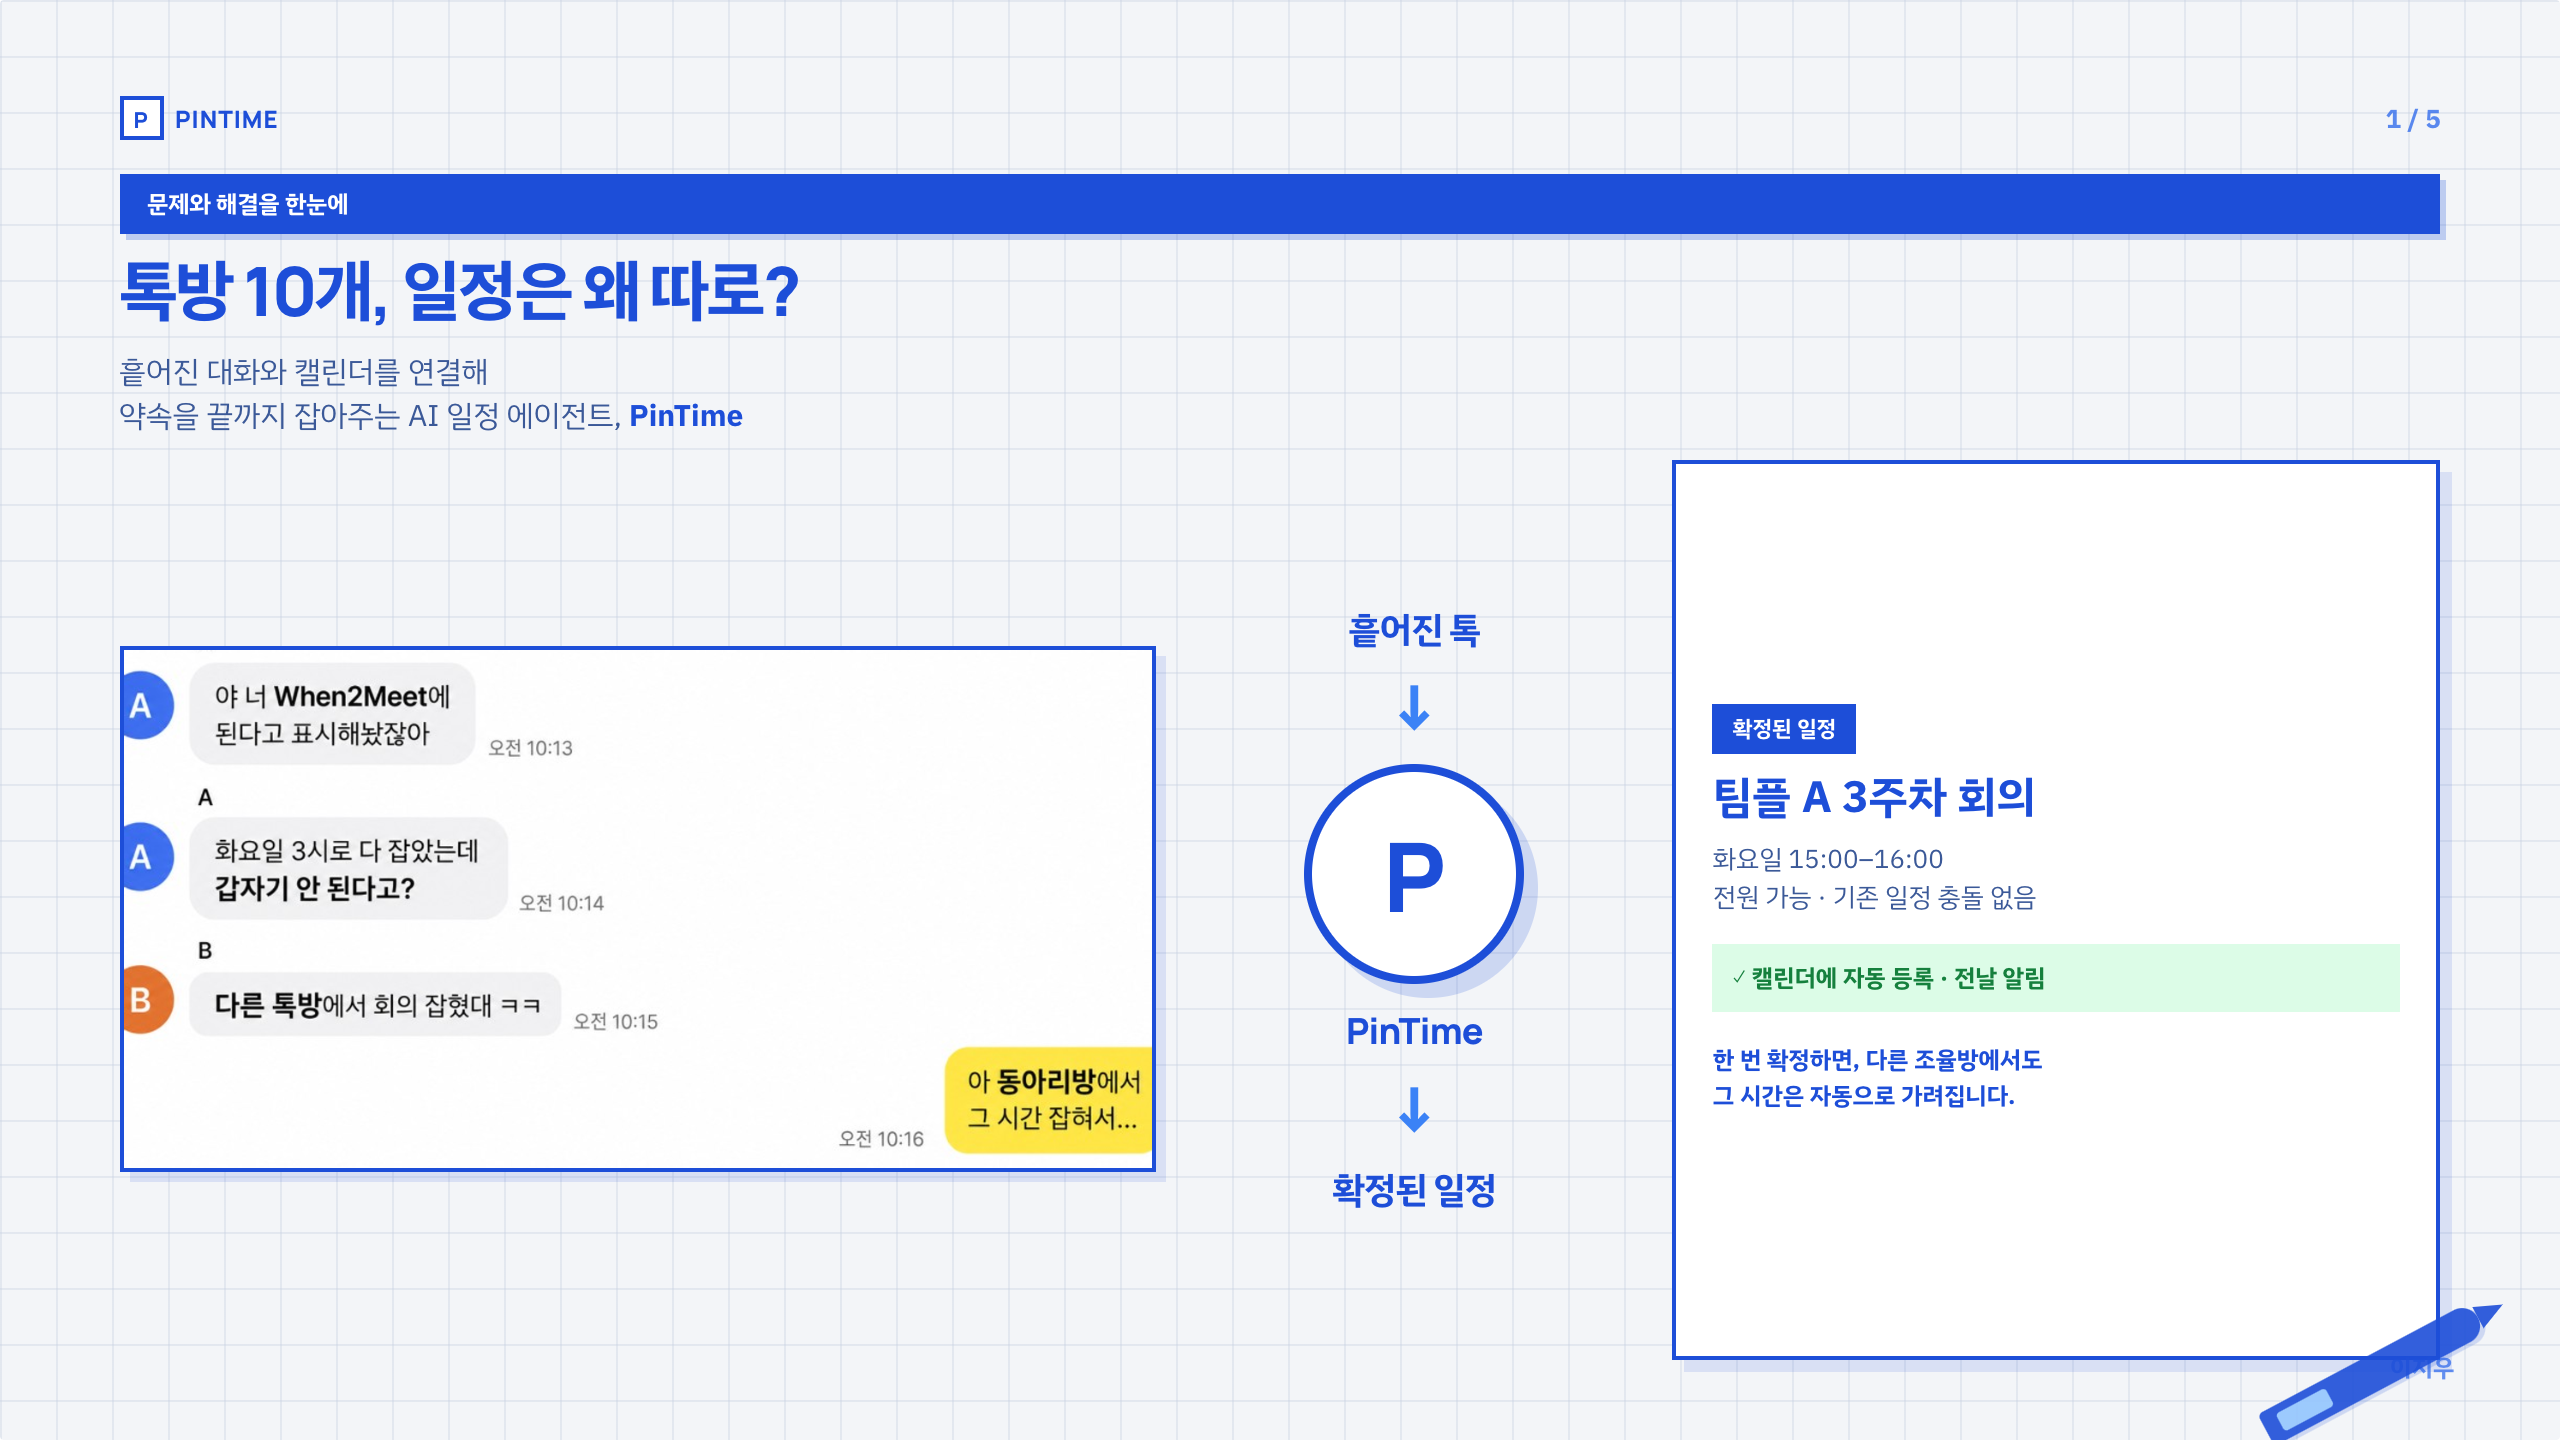
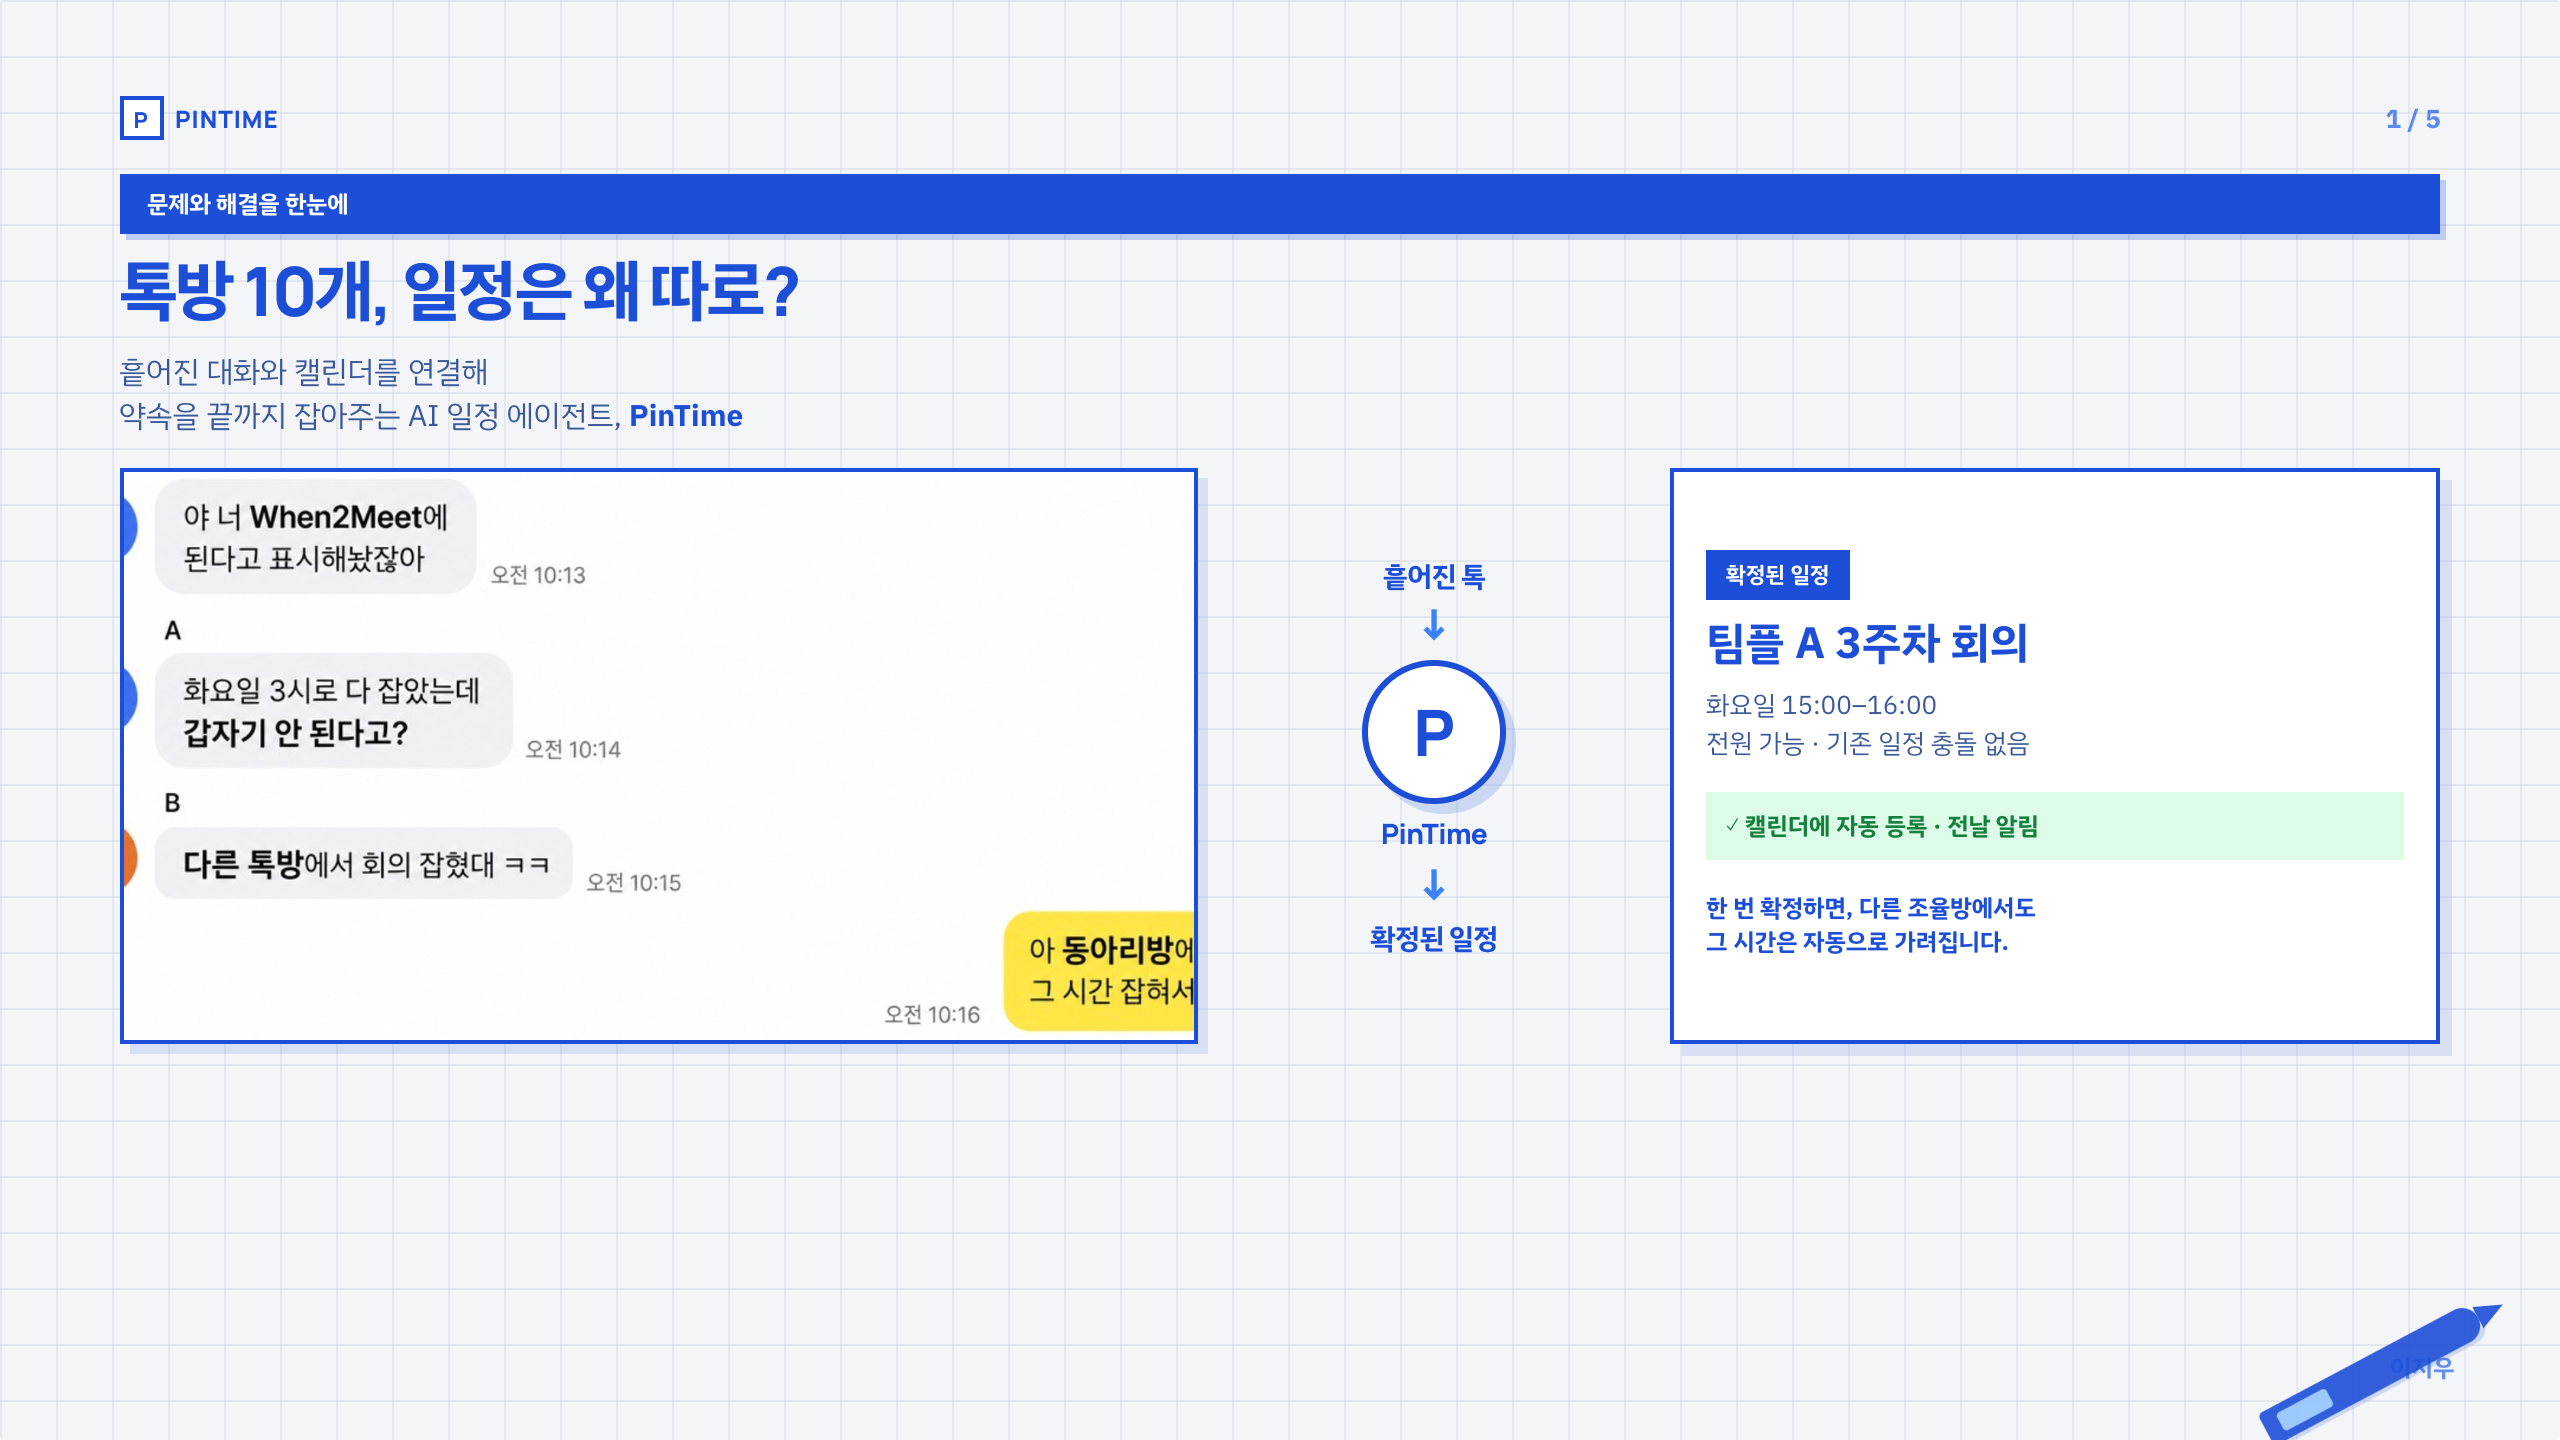
Fit slide-1 layout to chat image height without empty margins.

diff --git a/public/pitch.html b/public/pitch.html
@@ -194,46 +194,47 @@
       /* —— 개편 레이아웃 —— */
       .hero-bridge {
         display: grid;
-        grid-template-columns: 1.35fr 0.6fr 1fr;
-        gap: 14px;
+        grid-template-columns: 1.4fr 0.55fr 1fr;
+        gap: 12px;
         align-items: stretch;
-        flex: 1;
+        flex: 0 1 auto;
         min-height: 0;
-        margin-top: 10px;
+        margin-top: 14px;
       }
       .hero-bridge .arrow-col {
         display: flex;
         flex-direction: column;
         align-items: center;
         justify-content: center;
-        gap: 12px;
+        gap: 6px;
         text-align: center;
-        padding: 8px 4px;
+        padding: 4px 2px;
+        align-self: center;
       }
       .hero-bridge .pin-orb {
-        width: 110px;
-        height: 110px;
+        width: 72px;
+        height: 72px;
         border-radius: 50%;
-        border: 4px solid var(--blue);
+        border: 3px solid var(--blue);
         background: #fff;
-        box-shadow: 7px 7px 0 rgba(29, 78, 216, 0.18);
+        box-shadow: 5px 5px 0 rgba(29, 78, 216, 0.18);
         display: grid;
         place-items: center;
         font-family: Manrope, sans-serif;
         font-weight: 800;
-        font-size: 48px;
+        font-size: 32px;
         color: var(--blue);
       }
       .hero-bridge .flow-label {
-        font-size: 18px;
+        font-size: 14px;
         font-weight: 800;
         font-family: Manrope, 'IBM Plex Sans KR', sans-serif;
         color: var(--blue);
-        line-height: 1.3;
+        line-height: 1.25;
         letter-spacing: -0.02em;
       }
       .hero-bridge .flow-arrow {
-        font-size: 32px;
+        font-size: 22px;
         font-weight: 800;
         color: var(--blue-soft);
         line-height: 1;
@@ -244,8 +245,8 @@
         box-shadow: 5px 5px 0 rgba(29, 78, 216, 0.12);
         overflow: hidden;
         padding: 0;
-        align-self: center;
         width: 100%;
+        line-height: 0;
       }
       .hero-chat img {
         width: 100%;
@@ -303,12 +304,12 @@
         background: #fff;
         border: 2.5px solid var(--blue);
         box-shadow: 6px 6px 0 rgba(29, 78, 216, 0.12);
-        padding: 16px 18px;
+        padding: 14px 16px;
         display: flex;
         flex-direction: column;
         justify-content: center;
         gap: 8px;
-        align-self: stretch;
+        min-height: 0;
       }
       .result-card .rc-tag {
         align-self: flex-start;
